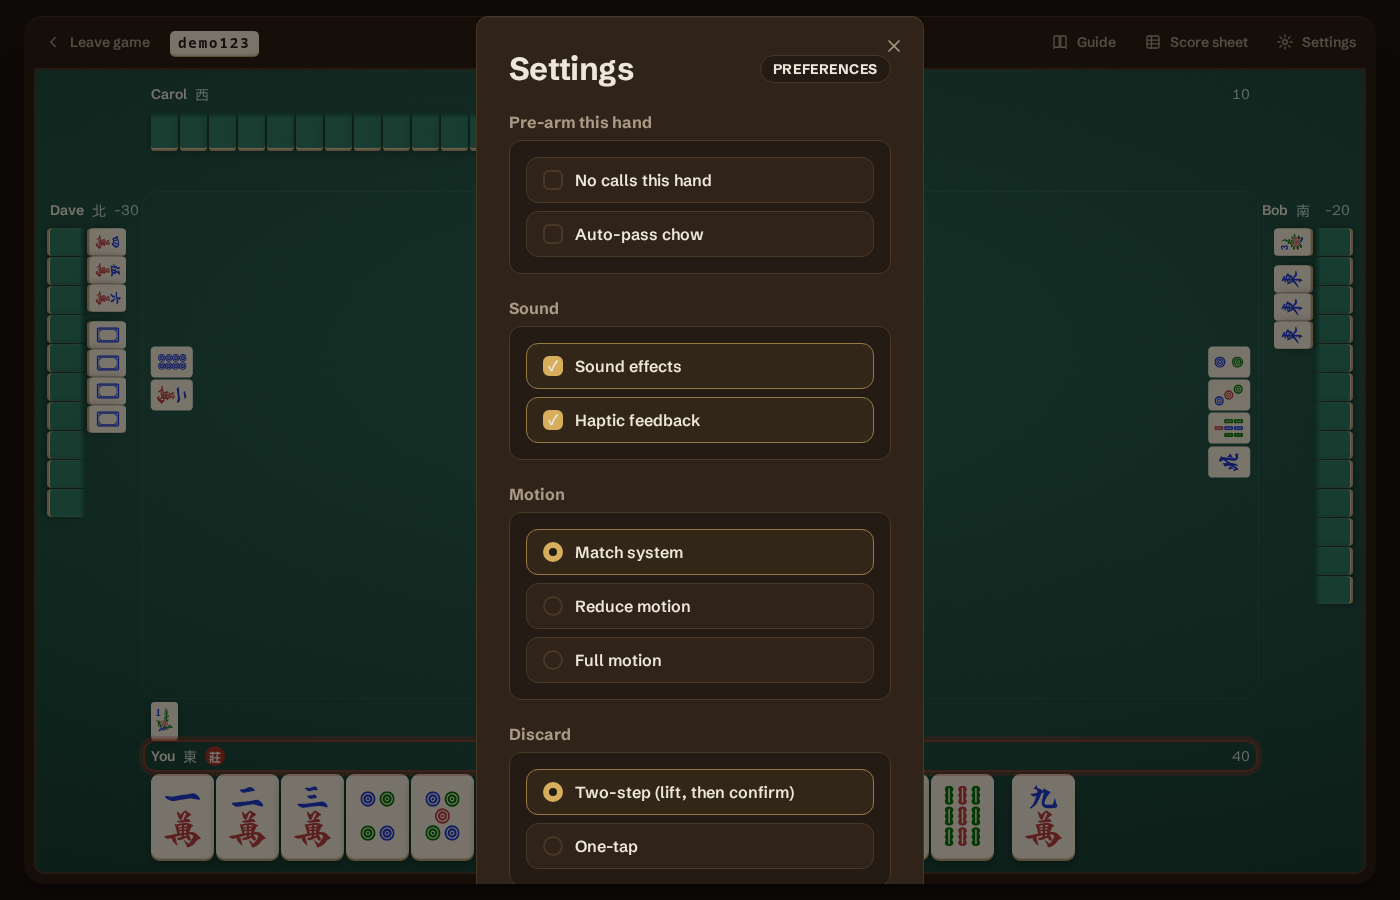
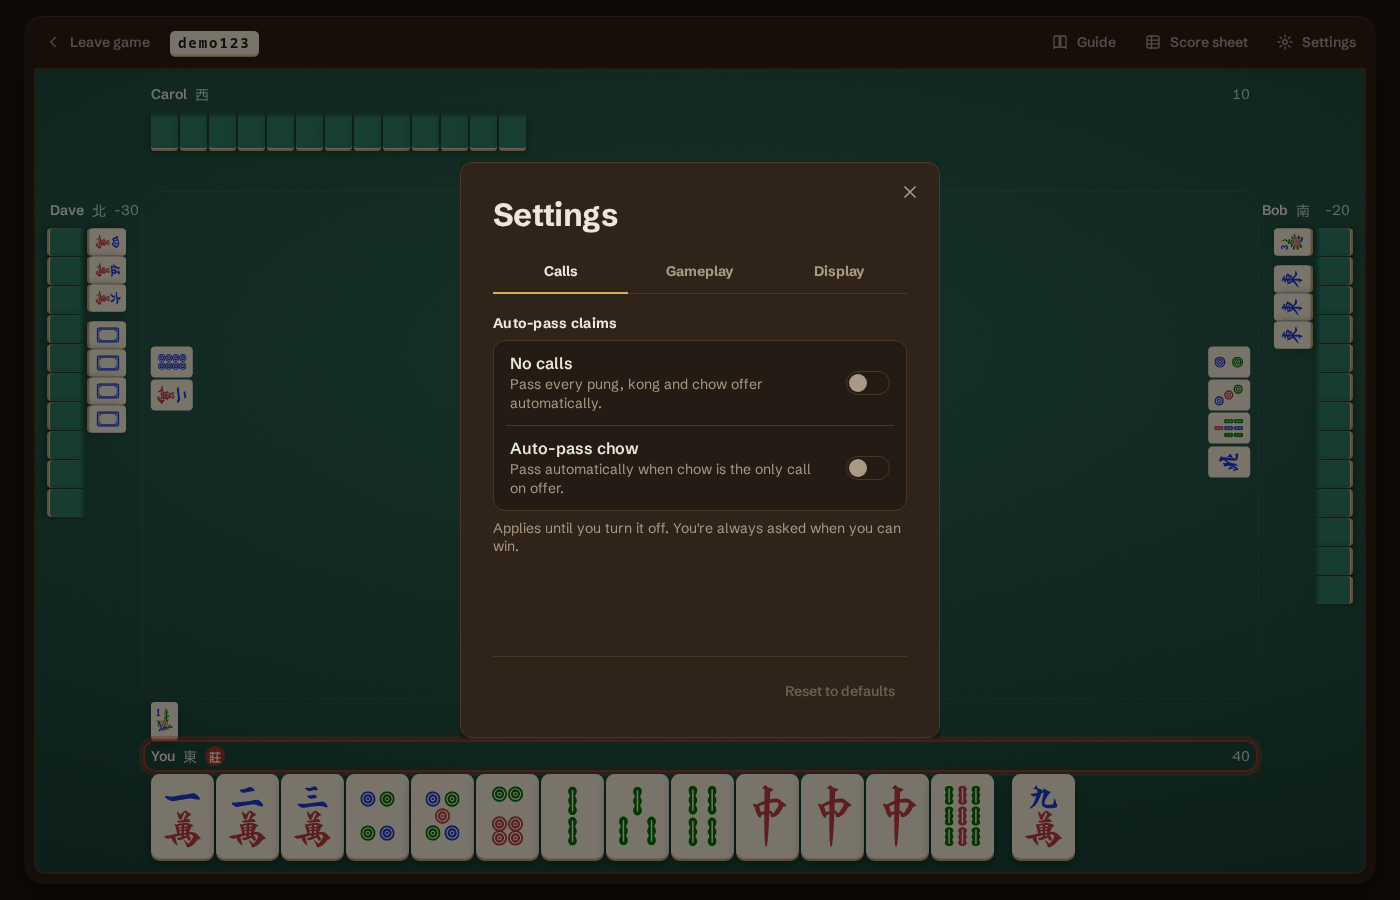
docs(web): refresh settings screenshot

diff --git a/README.md b/README.md
@@ -65,7 +65,7 @@ frontend change (see `.claude/skills/frontend-screenshots/SKILL.md`).
 | ![Lobby, practice dialog](docs/screenshots/lobby-practice-dialog.png) Lobby — practice setup: tap-to-cycle bot difficulty per seat | ![Tables](docs/screenshots/tables.png) Tables (`/tables`) — join by code, or sit down / watch from cards with a seat compass |
 | ![Table, your turn](docs/screenshots/table-your-turn.png) Table — your turn to discard | ![Table, claim window](docs/screenshots/table-claim-window.png) Table — claim window open |
 | ![Table, hand ended](docs/screenshots/table-hand-ended.png) Table — hand ended: result stamp, winning hand, faan rows, payments | ![Table, hand ended in a draw](docs/screenshots/table-hand-ended-draw.png) Table — hand ended, exhaustive draw |
-| ![Table, game ended](docs/screenshots/table-game-ended.png) Table — game ended: placement, final standings with ties, play again | ![Table, settings](docs/screenshots/table-settings.png) Table — settings panel |
+| ![Table, game ended](docs/screenshots/table-game-ended.png) Table — game ended: placement, final standings with ties, play again | ![Table, settings](docs/screenshots/table-settings.png) Table — settings: calls, gameplay and display tabs |
 | ![Table, connecting](docs/screenshots/table-pregame-connecting.png) Table — connecting | ![Table, take a seat](docs/screenshots/table-pregame-join.png) Table — take a seat |
 | ![Table, waiting for players](docs/screenshots/table-pregame-waiting.png) Table — seated, waiting for players | |
 
